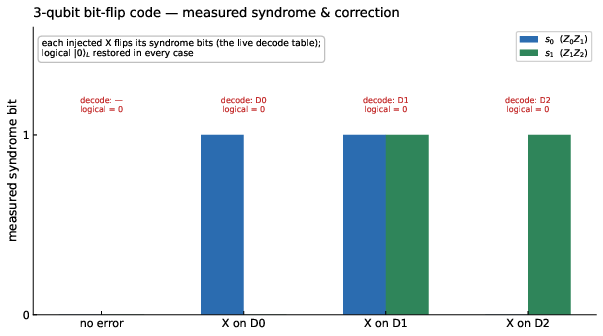
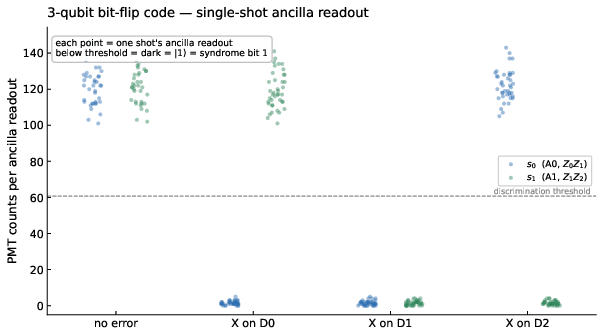
update readme

diff --git a/README.md b/README.md
@@ -68,7 +68,7 @@ Two-ion entangling gate via simultaneous red/blue sideband drive detuned from th
 
 ### Quantum error correction - `qec_x_check.py`
 
-Error correction for bitflips occuring in a logical qubit consisting of 3 real qubits. The error is introduced artificially by flipping one qubit and then corrected.
+Error correction for bitflips occuring in a logical qubit consisting of 3 real qubits. The error is introduced artificially by flipping one qubit, then detected with ancilla qubits and finally corrected.
 
 ![QEC](doc/qec_x_check.png)
 